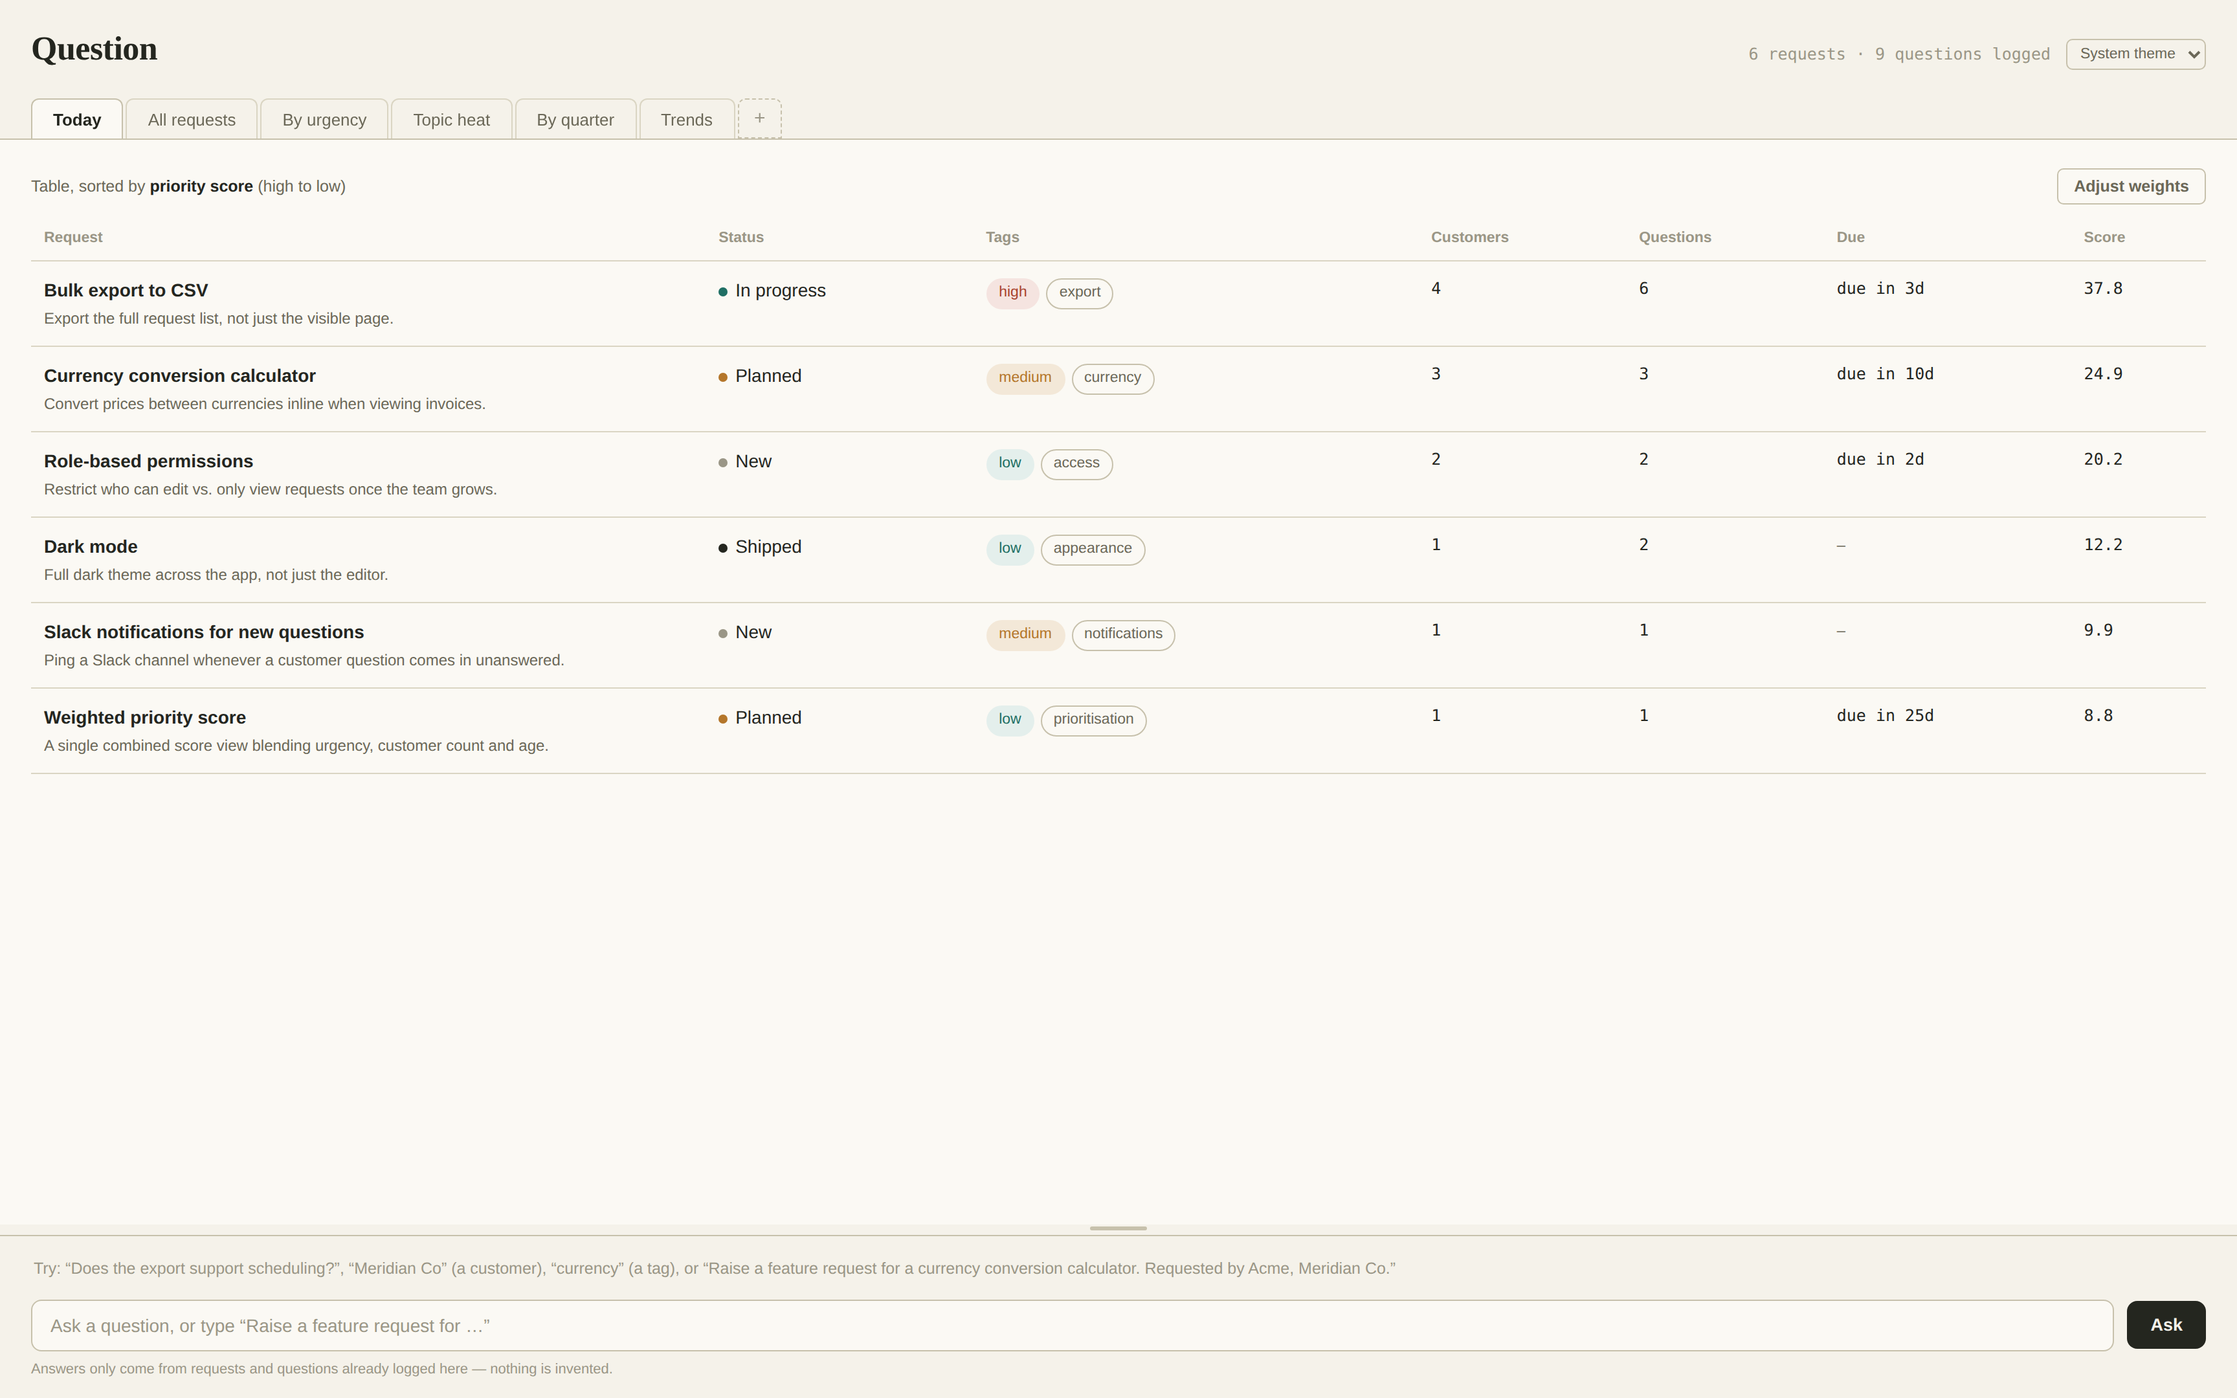
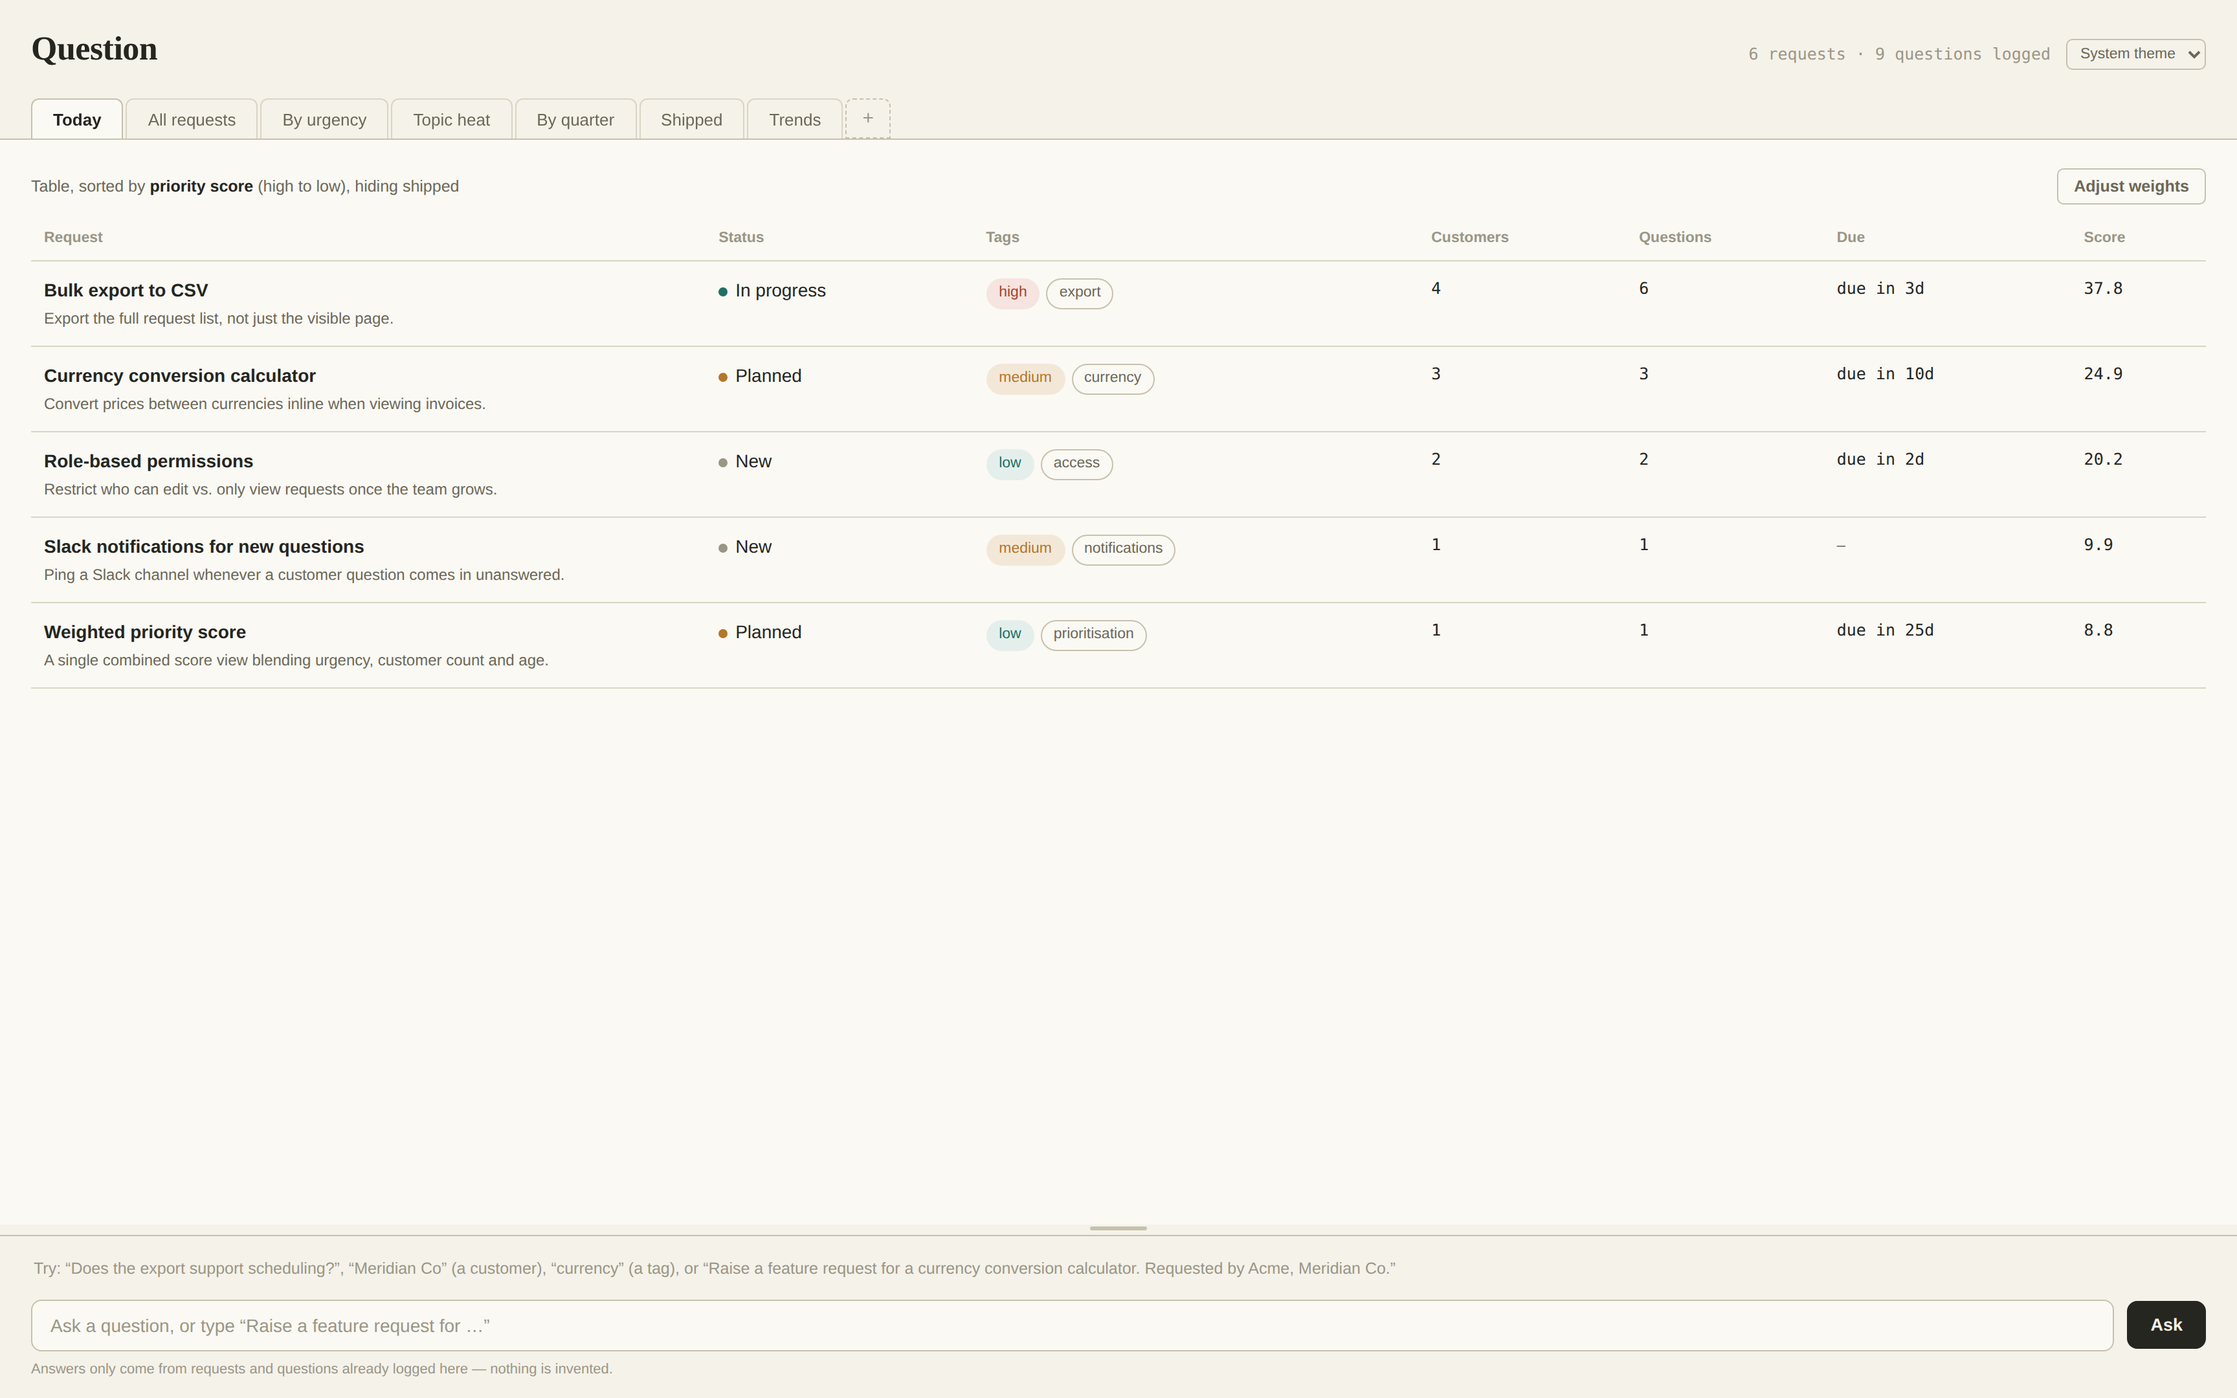
Let views filter shipped requests; Today/By urgency hide them by default
Fixes the reported bug: a shipped request with a due date in the past kept
sorting to the top of Today, because computeScoreParts() reads an overdue
due date as increasingly urgent — correct for an open request that's
slipping, meaningless for one that's already done. Rather than special-case
"shipped" inside the score formula, each view now has a shippedFilter
("all" / "hide" / "only", applied before sort/group) — a display choice per
view, never a change to the underlying data or to what the score means for
open requests.

- Today and By urgency default to "hide" (working views — a finished item
  is clutter there).
- All requests, Topic heat and By quarter default to "all" (read as
  comprehensive/historical on purpose).
- A new built-in "Shipped" view (sort: last updated, newest first) is where
  hidden items actually live, not just where they vanish from.
- The "New view" modal has a Shipped-requests selector for custom views.
- Migration is conservative: every existing view defaults to "all"
  (unchanged) except the score-sorted Today view, which gets "hide" — the
  one place this was actually reported broken — and the new Shipped view is
  added automatically so upgrading doesn't just lose track of shipped work.

Also added "Last updated" as a sort option (used by the new Shipped view),
regenerated the README screenshots, and logged the reasoning in
docs/DESIGN.md.

Claude-Session: https://claude.ai/code/session_01GVijoQsSv67Xh1uNSnb42M

diff --git a/renderer/index.html b/renderer/index.html
@@ -219,11 +219,18 @@
     </div>
     <div class="field-row">
       <div class="field"><label for="vSort">Sort by</label>
-        <select id="vSort"><option value="score">Priority score</option><option value="customers">Customer count</option><option value="questions">Question count</option><option value="age">Age (oldest first)</option><option value="dueDate">Due date</option><option value="urgency">Urgency</option><option value="title">Title (A–Z)</option></select>
+        <select id="vSort"><option value="score">Priority score</option><option value="customers">Customer count</option><option value="questions">Question count</option><option value="age">Age (oldest first)</option><option value="updated">Last updated</option><option value="dueDate">Due date</option><option value="urgency">Urgency</option><option value="title">Title (A–Z)</option></select>
       </div>
       <div class="field"><label for="vDir">Direction</label>
         <select id="vDir"><option value="desc">Descending</option><option value="asc">Ascending</option></select>
       </div>
+    </div>
+    <div class="field"><label for="vShipped">Shipped requests</label>
+      <select id="vShipped">
+        <option value="all">Show alongside everything else</option>
+        <option value="hide">Hide from this view</option>
+        <option value="only">Show only shipped requests</option>
+      </select>
     </div>
     <div class="modal-actions">
       <button class="btn-secondary" data-close="viewOverlay">Cancel</button>
@@ -322,11 +329,18 @@
   // land on identical defaults rather than two copies drifting apart.
   function defaultViews(){
     return [
-      { id: uid("v"), name: "Today", layout: "table", group: "none", sort: "score", dir: "desc", builtin: true },
-      { id: uid("v"), name: "All requests", layout: "table", group: "none", sort: "age", dir: "asc", builtin: true },
-      { id: uid("v"), name: "By urgency", layout: "board", group: "urgency", sort: "customers", dir: "desc", builtin: true },
-      { id: uid("v"), name: "Topic heat", layout: "gallery", group: "topic", sort: "questions", dir: "desc", builtin: true },
-      { id: uid("v"), name: "By quarter", layout: "board", group: "quarter", sort: "urgency", dir: "desc", builtin: true },
+      // Today and By urgency are working views — what to do next — so
+      // shipped requests (permanently "done") default to hidden in both;
+      // otherwise a completed item with a past due date only climbs the
+      // priority score over time instead of dropping out of the way. All
+      // requests / Topic heat / By quarter default to showing everything,
+      // since those are read as comprehensive/historical views on purpose.
+      { id: uid("v"), name: "Today", layout: "table", group: "none", sort: "score", dir: "desc", shippedFilter: "hide", builtin: true },
+      { id: uid("v"), name: "All requests", layout: "table", group: "none", sort: "age", dir: "asc", shippedFilter: "all", builtin: true },
+      { id: uid("v"), name: "By urgency", layout: "board", group: "urgency", sort: "customers", dir: "desc", shippedFilter: "hide", builtin: true },
+      { id: uid("v"), name: "Topic heat", layout: "gallery", group: "topic", sort: "questions", dir: "desc", shippedFilter: "all", builtin: true },
+      { id: uid("v"), name: "By quarter", layout: "board", group: "quarter", sort: "urgency", dir: "desc", shippedFilter: "all", builtin: true },
+      { id: uid("v"), name: "Shipped", layout: "table", group: "none", sort: "updated", dir: "desc", shippedFilter: "only", builtin: true },
     ];
   }
   function defaultScoreWeights(){ return { urgency: 3, customers: 2, questions: 1.5, age: 0.03, dueDate: 1 }; }
@@ -420,7 +434,19 @@
       if (r.dueDate === undefined) r.dueDate = null;
     });
     if (!s.scoreWeights) s.scoreWeights = defaultScoreWeights();
-    if (!s.views.some(v => v.sort === "score")) s.views.unshift({ id: uid("v"), name: "Today", layout: "table", group: "none", sort: "score", dir: "desc", builtin: true });
+    if (!s.views.some(v => v.sort === "score")) s.views.unshift({ id: uid("v"), name: "Today", layout: "table", group: "none", sort: "score", dir: "desc", shippedFilter: "hide", builtin: true });
+    // shippedFilter is new — default every existing view to "all" (unfiltered),
+    // preserving exactly what it showed before, EXCEPT the Today view: a
+    // shipped request's score only ever climbs as its due date falls further
+    // into the past (see the comment in render()), which is the actual bug
+    // this was added to fix, so upgrading straight to a clean Today view
+    // beats requiring a manual fix. Identified by sort==="score", the same
+    // heuristic already used just above to find/insert it.
+    s.views.forEach(v => { if (v.shippedFilter === undefined) v.shippedFilter = v.sort === "score" ? "hide" : "all"; });
+    // Also add the new built-in "Shipped" view if this save predates it, so
+    // upgrading users get somewhere shipped requests actually live now that
+    // Today/By urgency can hide them — not just a spot they vanish from.
+    if (!s.views.some(v => v.shippedFilter === "only")) s.views.push({ id: uid("v"), name: "Shipped", layout: "table", group: "none", sort: "updated", dir: "desc", shippedFilter: "only", builtin: true });
     // Older "unanswered" feed entries were frozen HTML strings with no id, so
     // they can't be tracked to a created request — give them what they need
     // to work like new ones (see feedBodyHtml/saveDraft), rather than crashing.
@@ -722,6 +748,7 @@
         case "customers": av = a.customers.length; bv = b.customers.length; break;
         case "questions": av = a.questionCount; bv = b.questionCount; break;
         case "age": av = a.createdAt; bv = b.createdAt; break;
+        case "updated": av = a.updatedAt; bv = b.updatedAt; break;
         case "urgency": av = URGENCY_RANK[a.urgency] || 0; bv = URGENCY_RANK[b.urgency] || 0; break;
         case "title": av = a.title.toLowerCase(); bv = b.title.toLowerCase(); break;
         case "score": av = scoreOf(a); bv = scoreOf(b); break;
@@ -849,12 +876,27 @@
     const view = state.views.find(v => v.id === state.activeView) || state.views[0];
     if (!view) { mainEl.innerHTML = `<div class="empty-state">No views yet. Add one with the + tab.</div>`; return; }
     const isScore = view.sort === "score";
+    // Shipped requests otherwise never leave a view once done — a completed
+    // item's due date, if it has one, only ever falls further into the past,
+    // which the priority score reads as increasingly overdue/urgent rather
+    // than "no longer relevant." Filtering here (rather than changing what
+    // the score means for open requests) keeps the score formula meaningful
+    // for the requests it's actually for. See docs/DESIGN.md.
+    const shippedFilter = view.shippedFilter || "all";
+    const shippedNote = shippedFilter === "hide" ? ", hiding shipped" : shippedFilter === "only" ? ", shipped only" : "";
     const toolbar = `<div class="view-toolbar">
-        <div class="view-descriptor">${view.layout.charAt(0).toUpperCase()+view.layout.slice(1)}${view.group!=='none' ? ", grouped by <b>"+view.group+"</b>" : ""}, sorted by <b>${sortLabel(view.sort)}</b> (${sortDirLabel(view.sort, view.dir)})</div>
+        <div class="view-descriptor">${view.layout.charAt(0).toUpperCase()+view.layout.slice(1)}${view.group!=='none' ? ", grouped by <b>"+view.group+"</b>" : ""}, sorted by <b>${sortLabel(view.sort)}</b> (${sortDirLabel(view.sort, view.dir)})${shippedNote}</div>
         <div class="toolbar-actions">${isScore ? `<button class="btn" id="adjustWeightsBtn">Adjust weights</button>` : ""}${view.builtin ? "" : `<button class="btn btn-danger" id="deleteViewBtn">Delete view</button>`}</div>
       </div>`;
     if (state.requests.length === 0){ mainEl.innerHTML = toolbar + `<div class="empty-state">No feature requests yet. Ask the composer below to raise one.</div>`; return; }
-    const sorted = sortReqs(state.requests, view.sort, view.dir);
+    const visible = shippedFilter === "hide" ? state.requests.filter(r => !r.shipped)
+      : shippedFilter === "only" ? state.requests.filter(r => r.shipped)
+      : state.requests;
+    if (visible.length === 0){
+      const msg = shippedFilter === "only" ? "Nothing shipped yet." : "Nothing left in this view — everything's shipped.";
+      mainEl.innerHTML = toolbar + `<div class="empty-state">${msg}</div>`; return;
+    }
+    const sorted = sortReqs(visible, view.sort, view.dir);
     const groups = groupReqs(sorted, view.group, view.sort, view.dir);
     let body = view.layout === "table" ? renderTable(sorted, isScore) : view.layout === "board" ? renderBoard(groups) : renderGallery(groups);
     mainEl.innerHTML = toolbar + body;
@@ -1065,11 +1107,12 @@
     });
     mainEl.querySelectorAll("[data-go-req]").forEach(el => { el.onclick = () => openRequestDetail(el.getAttribute("data-go-req")); });
   }
-  function sortLabel(s){ return { customers:"customer count", questions:"question count", age:"creation date", urgency:"urgency", title:"title", score:"priority score", dueDate:"due date" }[s] || s; }
+  function sortLabel(s){ return { customers:"customer count", questions:"question count", age:"creation date", updated:"last updated", urgency:"urgency", title:"title", score:"priority score", dueDate:"due date" }[s] || s; }
   // "high to low" / "low to high" reads fine for a count or a score, but not
-  // for a date — "age" is really "creation date" ordered old-to-new/new-to-old.
+  // for a date — "age"/"updated" are really creation/update dates ordered
+  // old-to-new/new-to-old.
   function sortDirLabel(sort, dir){
-    if (sort === "age") return dir === "desc" ? "new to old" : "old to new";
+    if (sort === "age" || sort === "updated") return dir === "desc" ? "new to old" : "old to new";
     return dir === "desc" ? "high to low" : "low to high";
   }
 
@@ -1149,9 +1192,10 @@
     const name = document.getElementById("vName").value.trim();
     if (!name) { document.getElementById("vName").focus(); return; }
     const v = { id: uid("v"), name, layout: document.getElementById("vLayout").value, group: document.getElementById("vGroup").value,
-      sort: document.getElementById("vSort").value, dir: document.getElementById("vDir").value, builtin: false };
+      sort: document.getElementById("vSort").value, dir: document.getElementById("vDir").value,
+      shippedFilter: document.getElementById("vShipped").value, builtin: false };
     state.views.push(v); state.activeView = v.id; saveState();
-    closeOverlay("viewOverlay"); document.getElementById("vName").value = ""; render();
+    closeOverlay("viewOverlay"); document.getElementById("vName").value = ""; document.getElementById("vShipped").value = "all"; render();
   };
 
   const feedEl = document.getElementById("feed");

diff --git a/docs/DESIGN.md b/docs/DESIGN.md
@@ -60,6 +60,42 @@ here whenever a non-obvious choice gets made, or gets questioned and kept.
   app ever produced its example data before") — a reset should give you a
   truly blank app, not the demo content again.
 
+## Views & scoring
+
+- **A shipped request's priority score only ever climbs, never drops out of
+  the way, unless something filters it out.** The score formula reads an
+  overdue due date as increasingly urgent (`10 + min(20, daysOverdue)` in
+  `computeScoreParts()`) — correct for an open request that's slipping, but
+  a shipped request has no "slipping" left; it's just done. Rather than
+  special-case "shipped" inside the score formula itself (which would make
+  the formula's meaning conditional and harder to reason about), each view
+  has a `shippedFilter` ("all" / "hide" / "only") applied before
+  sort/group — so the formula stays one honest thing, and whether a
+  finished item should even be competing for attention is a per-view
+  decision instead.
+- **Today and By urgency default to hiding shipped requests; All requests,
+  Topic heat and By quarter default to showing everything.** The first two
+  are working views — "what do I do next" — where a permanently-done item
+  is just clutter (this is the bug that prompted `shippedFilter` to exist
+  at all: a shipped, overdue request was sorting to the top of Today). The
+  other three are read as comprehensive or historical on purpose — "Topic
+  heat" in particular loses meaning if it can't show that a shipped
+  feature is still generating questions, which is itself a signal (probably
+  a discoverability problem, not a backlog problem).
+- **A dedicated "Shipped" view (`shippedFilter: "only"`) exists so hiding
+  shipped requests elsewhere doesn't mean losing track of them.** Hiding is
+  a view-level display choice, never a data-level one — nothing about a
+  request's shipped status affects whether it's in `state.requests`, only
+  which views choose to show it.
+- **Migrating an existing install only changes the one view the bug was
+  actually in.** Every pre-existing view defaults `shippedFilter` to `"all"`
+  (i.e., exactly what it already showed) except the score-sorted Today view,
+  which defaults to `"hide"` — on the theory that fixing the reported bug
+  automatically beats requiring a manual step, but silently changing what a
+  *different*, working view already shows out from under an existing user
+  does not. The new Shipped view is also added automatically on migration,
+  so upgrading doesn't just make shipped requests disappear.
+
 ## UI & renderer
 
 - **There is no "Clear all data" button.** There used to be one — a

diff --git a/README.md b/README.md
@@ -18,7 +18,9 @@ questions came in, age, and due-date proximity.
 
 - **Today view** — a single, adjustable priority score (urgency, customer
   count, question volume, age, due-date proximity) surfaces what to work on
-  next, instead of a flat backlog.
+  next, instead of a flat backlog. Shipped requests don't clutter it — they
+  land in their own **Shipped** view instead (any view can be set to hide
+  shipped requests, show them alongside everything else, or show only them).
 - **Feature requests** — track status, urgency, topic, quarter, customers,
   and due date per request; raise a request straight from a logged question
   so duplicates get merged instead of re-created.
